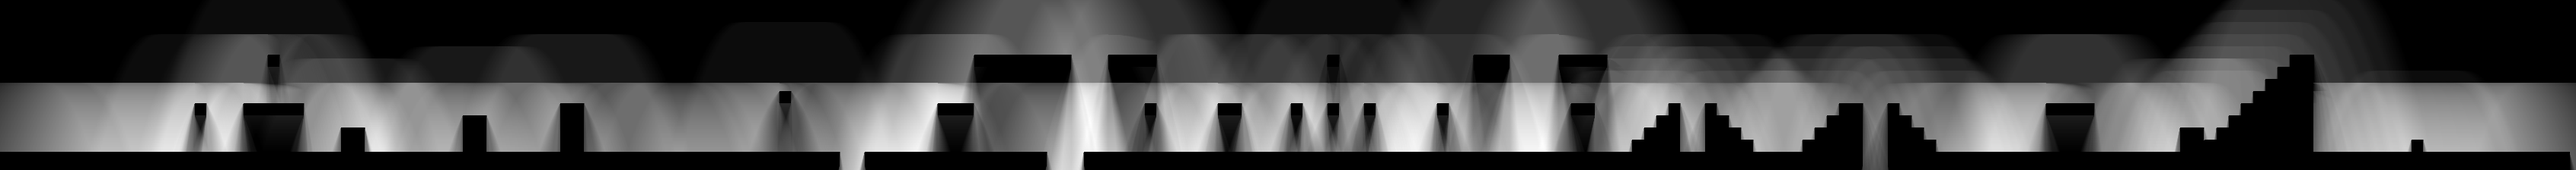
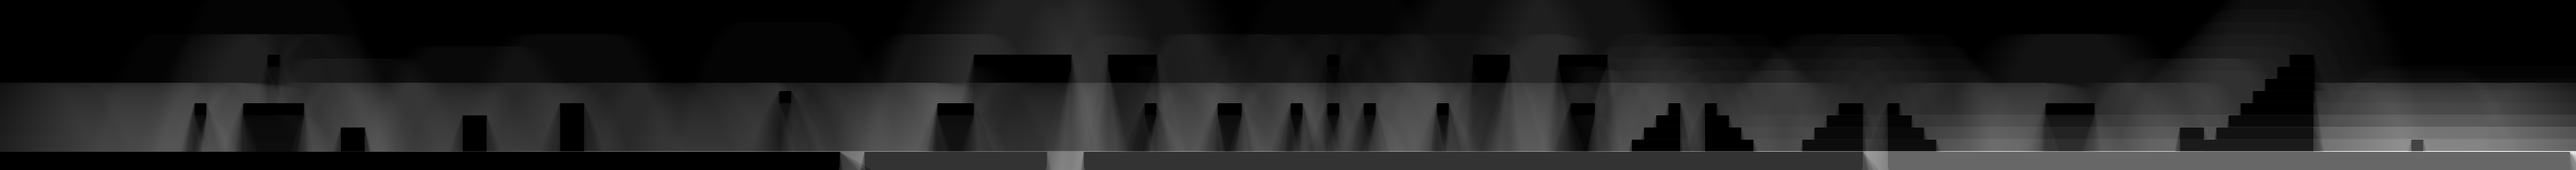
remove comments

diff --git a/Reach_Data/Reach_Data.cpp b/Reach_Data/Reach_Data.cpp
@@ -39,17 +39,22 @@ int main(int argc, char* argv[]) {
 			platform_image.at<uchar>(pixel.x, pixel.y) = 255;
 		cv::imwrite(base_path + "\\platform_image.png", platform_image);
 	}	
-	
-	cv::Mat jump_up((int) globals.jump_height, static_cast<int>(globals.jump_half_width)* 2, CV_8UC1, cv::Scalar(0));
-	cv::Mat jump_down((int) globals.jump_height, static_cast<int>(globals.jump_half_width) * 2, CV_8UC1, cv::Scalar(0));
-	for (int x = 0; x < jump_up.rows; x++) {
-		float hd = horizontal_from_vertical(cv::Point2f(0.f, globals.velocity.y), globals.gravity, static_cast<float>(-x));
-		for (int y = 0; y <= static_cast<int>(globals.jump_half_width - hd); y++) jump_up.at<uchar>(x, y) = 255;
-		for (int y = 0; y <= static_cast<int>(globals.jump_half_width + hd); y++) jump_down.at<uchar>(x, y) = 255;
-	}
-	cv::imwrite("jump_up.png", jump_up);
-	cv::imwrite("jump_down.png", jump_down);
+	std::ifstream jump_up_image("jump_up.png");
+	std::ifstream jump_down_image("jump_down.png");
 
+	if(!(jump_down_image && jump_up_image))
+	{
+		cv::Mat jump_up((int) globals.jump_height, static_cast<int>(globals.jump_half_width)* 2, CV_8UC1, cv::Scalar(0));
+		cv::Mat jump_down((int) globals.jump_height, static_cast<int>(globals.jump_half_width) * 2, CV_8UC1, cv::Scalar(0));
+        for (int x = 0; x < jump_up.rows; x++) {
+        	float hd = horizontal_from_vertical(cv::Point2f(0.f, globals.velocity.y), globals.gravity, static_cast<float>(-x));
+        	for (int y = 0; y <= static_cast<int>(globals.jump_half_width - hd); y++) jump_up.at<uchar>(x, y) = 255;
+        	for (int y = 0; y <= static_cast<int>(globals.jump_half_width + hd); y++) jump_down.at<uchar>(x, y) = 255;
+        }
+		cv::imwrite("jump_up.png", jump_up);
+		cv::imwrite("jump_down.png", jump_down);
+	}
+	
 	cv::Mat reach_image(std::get<0>(dim_image), std::get<1>(dim_image), CV_32SC1, cv::Scalar(0));
 
 	int count = 0;
@@ -57,114 +62,111 @@ int main(int argc, char* argv[]) {
 	for (const cv::Point& platform_pixel : platform_pixels) {
 		cv::Mat jump_right_image(std::get<0>(dim_image), std::get<1>(dim_image), CV_8UC1, cv::Scalar(0));
 		/* Calculates the right sided jump. */ {
-			cv::Point summit(platform_pixel.x - globals.jump_height, platform_pixel.y + globals.jump_half_width);
+		cv::Point summit(platform_pixel.x - globals.jump_height, platform_pixel.y + globals.jump_half_width);
 
-			cv::Mat ascending_image(jump_right_image.rows, jump_right_image.cols, CV_8UC1, cv::Scalar(0));
-			/* Paint the full ascending motion of the jump. */ {
-				for (int x = __max(summit.x, 0) /* if jump is higher than the top of the image. */; x < platform_pixel.x; x++) {
-					float horizontal_delta = horizontal_from_vertical(cv::Point2f(0.f, globals.velocity.y), globals.gravity, summit.x - x);
-					for (int y = platform_pixel.y; y <= __min(summit.y - horizontal_delta, ascending_image.cols - 1) /* if jump is too far right of the image. */; y++)
-						ascending_image.at<uchar>(x, y) = 255;
-				}
+		cv::Mat ascending_image(jump_right_image.rows, jump_right_image.cols, CV_8UC1, cv::Scalar(0));
+		/* Paint the full ascending motion of the jump. */ {
+			for (int x = __max(summit.x, 0) /* if jump is higher than the top of the image. */; x < platform_pixel.x; x++) {
+				float horizontal_delta = horizontal_from_vertical(cv::Point2f(0.f, globals.velocity.y), globals.gravity, summit.x - x);
+				for (int y = platform_pixel.y; y <= __min(summit.y - horizontal_delta, ascending_image.cols - 1) /* if jump is too far right of the image. */; y++)
+					ascending_image.at<uchar>(x, y) = 255;
+			}
+		}
+
+		cv::Mat descending_image(jump_right_image.rows, jump_right_image.cols, CV_8UC1, cv::Scalar(0));
+		/* Paint the full descending motion of the jump. */ {
+			for (int x = __max(summit.x, 0) /* if jump is higher than the top of the image. */; x < descending_image.rows; x++) {
+				float horizontal_delta = horizontal_from_vertical(cv::Point2f(0.f, globals.velocity.y), globals.gravity, summit.x - x);
+				for (int y = platform_pixel.y; y <= __min(summit.y + horizontal_delta, descending_image.cols - 1) /* if jump is too far right of the image. */; y++)
+					descending_image.at<uchar>(x, y) = 255;
+			}
+		}
+
+		for (const collision_t& collision : collisions) {
+			bool process_ascending = true;
+			bool process_descending = true;
+			/* Cut-offs for optimisation (platforms that will have no impact on reach). */ {
+				if (collision.y + collision.w <= platform_pixel.y) continue;   // The platform is to the left of the jump.
+				if (collision.x + collision.h <= summit.x) continue;		   // The platform is above the jump height.
+				if (collision.x > platform_pixel.x) process_ascending = false; // Ascending specific: the platform is below the starting point.
+				if (collision.y > summit.y) process_ascending = false;		   // Ascending specific: the platform is farther right than the summit.
+
+				float horizontal_delta = horizontal_from_vertical(cv::Point2f(0.f, globals.velocity.y), globals.gravity, summit.x - descending_image.rows);
+				if (collision.y > summit.y + horizontal_delta) process_descending = false; // Descending specific: the platform is farther right than the jump can reach.
 			}
 
-			cv::Mat descending_image(jump_right_image.rows, jump_right_image.cols, CV_8UC1, cv::Scalar(0));
-			/* Paint the full descending motion of the jump. */ {
-				for (int x = __max(summit.x, 0) /* if jump is higher than the top of the image. */; x < descending_image.rows; x++) {
-					float horizontal_delta = horizontal_from_vertical(cv::Point2f(0.f, globals.velocity.y), globals.gravity, summit.x - x);
-					for (int y = platform_pixel.y; y <= __min(summit.y + horizontal_delta, descending_image.cols - 1) /* if jump is too far right of the image. */; y++)
-						descending_image.at<uchar>(x, y) = 255;
-				}
-			}
+			if (process_ascending) {
+				cv::Point   ul_corner(__max(collision.x, summit.x), collision.y - 1);
+				cv::Point2f ul_velocity = ascending_velocity(platform_pixel, ul_corner, globals.velocity, globals.gravity);
+				cv::Point2f ul_summit   = ascending_summit(ul_corner, ul_velocity, globals.gravity);
 
-			for (const collision_t& collision : collisions) {
-				bool process_ascending = true;
-				bool process_descending = true;
-				/* Cut-offs for optimisation (platforms that will have no impact on reach). */ {
-					if (collision.y + collision.w <= platform_pixel.y) continue;   // The platform is to the left of the jump.
-					if (collision.x + collision.h <= summit.x) continue;		   // The platform is above the jump height.
-					if (collision.x > platform_pixel.x) process_ascending = false; // Ascending specific: the platform is below the starting point.
-					if (collision.y > summit.y) process_ascending = false;		   // Ascending specific: the platform is farther right than the summit.
+				cv::Point   lr_corner(collision.x + collision.h - 1, collision.y + collision.w);
+				cv::Point2f lr_velocity = ascending_velocity(platform_pixel, lr_corner, globals.velocity, globals.gravity);
+				cv::Point2f lr_summit   = ascending_summit(lr_corner, lr_velocity, globals.gravity);
 
-					float horizontal_delta = horizontal_from_vertical(cv::Point2f(0.f, globals.velocity.y), globals.gravity, summit.x - descending_image.rows);
-					if (collision.y > summit.y + horizontal_delta) process_descending = false; // Descending specific: the platform is farther right than the jump can reach.
-				}
+				if (ul_velocity.y <= globals.velocity.y) {
+					int start_x = __max(ul_summit.x, lr_summit.x); // Get rid of floating-point errors.
+					start_x = __max(start_x, 0); // if jump is higher than the top of the image.
+					for (int x = start_x; x <= lr_corner.x; x++) {
+						float right = lr_summit.y - horizontal_from_vertical(cv::Point2f(0.f, lr_velocity.y), globals.gravity, lr_summit.x - x) - 1;
+						float left  = ul_summit.y - horizontal_from_vertical(cv::Point2f(0.f, ul_velocity.y), globals.gravity, ul_summit.x - x) + 1;
+						right = __min(right, ascending_image.cols - 1); // If the platform is at the same level as the jump origin (inf otherwise).
+						left  = __max(__min(left, ascending_image.cols - 1) /* if the jump is farther right than the image. */, platform_pixel.y);
 
-				if (process_ascending) {
-					cv::Point   ul_corner(__max(collision.x, summit.x), collision.y - 1);
-					cv::Point2f ul_velocity = ascending_velocity(platform_pixel, ul_corner, globals.velocity, globals.gravity);
-					cv::Point2f ul_summit   = ascending_summit(ul_corner, ul_velocity, globals.gravity);
-
-					cv::Point   lr_corner(collision.x + collision.h - 1, collision.y + collision.w);
-					cv::Point2f lr_velocity = ascending_velocity(platform_pixel, lr_corner, globals.velocity, globals.gravity);
-					cv::Point2f lr_summit   = ascending_summit(lr_corner, lr_velocity, globals.gravity);
-
-					if (ul_velocity.y <= globals.velocity.y) {
-						int start_x = __max(ul_summit.x, lr_summit.x); // Get rid of floating-point errors.
-						start_x = __max(start_x, 0); // if jump is higher than the top of the image.
-						for (int x = start_x; x <= lr_corner.x; x++) {
-							float right = lr_summit.y - horizontal_from_vertical(cv::Point2f(0.f, lr_velocity.y), globals.gravity, lr_summit.x - x) - 1;
-							float left  = ul_summit.y - horizontal_from_vertical(cv::Point2f(0.f, ul_velocity.y), globals.gravity, ul_summit.x - x) + 1;
-							right = __min(right, ascending_image.cols - 1); // If the platform is at the same level as the jump origin (inf otherwise).
-							left  = __max(__min(left, ascending_image.cols - 1) /* if the jump is farther right than the image. */, platform_pixel.y);
-
-							for (int y = left; y <= right; y++)
-								ascending_image.at<uchar>(x, y) = 0;
-						}
-
-						for (int x = start_x; x < ascending_image.rows; x++) {
-							float right = lr_summit.y + horizontal_from_vertical(cv::Point2f(0.f, lr_velocity.y), globals.gravity, lr_summit.x - x) - 1;
-							float left = ul_summit.y + horizontal_from_vertical(cv::Point2f(0.f, ul_velocity.y), globals.gravity, ul_summit.x - x) + 1;
-							right = __max(__min(right, ascending_image.cols - 1), 0); // If the jump is farther right than the image.
-							left = __max(__min(left, ascending_image.cols - 1), 0); // If the jump is farther right than the image.
-
-							for (int y = left; y <= right; y++)
-								descending_image.at<uchar>(x, y) = 0;
-						}
+						for (int y = left; y <= right; y++)
+							ascending_image.at<uchar>(x, y) = 0;
 					}
-				}
 
-				if (process_descending) {
-					cv::Point   ll_corner(collision.x + collision.h - 1, collision.y - 1);
-					cv::Point2f ll_velocity = descending_velocity(platform_pixel, ll_corner, globals.velocity, globals.gravity);
+					for (int x = start_x; x < ascending_image.rows; x++) {
+						float right = lr_summit.y + horizontal_from_vertical(cv::Point2f(0.f, lr_velocity.y), globals.gravity, lr_summit.x - x) - 1;
+						float left = ul_summit.y + horizontal_from_vertical(cv::Point2f(0.f, ul_velocity.y), globals.gravity, ul_summit.x - x) + 1;
+						right = __max(__min(right, ascending_image.cols - 1), 0); // If the jump is farther right than the image.
+						left = __max(__min(left, ascending_image.cols - 1), 0); // If the jump is farther right than the image.
 
-					cv::Point   ur_corner(collision.x, collision.y + collision.w);
-					cv::Point2f ur_velocity = descending_velocity(platform_pixel, ur_corner, globals.velocity, globals.gravity);
-
-					for (int x = ur_corner.x; x < descending_image.rows; x++) {
-						float right = ur_corner.y + horizontal_from_vertical(ur_velocity, globals.gravity, ur_corner.x - x) - 1;
-						float left  = ll_corner.y + horizontal_from_vertical(ll_velocity, globals.gravity, __min(ll_corner.x - x, 0)) + 1;
-						right = __min(right, descending_image.cols - 1); // If the jump is farther right than the image.
-						left  = __min(__max(left, 0), descending_image.cols - 1); // If the jump is farther right than the image.
-
-						for (int y = left; y <= right; y++) {
+						for (int y = left; y <= right; y++)
 							descending_image.at<uchar>(x, y) = 0;
-						}
 					}
 				}
+			}
 
-				//if (process_ascending) {
-				//	if (platform_pixel.y == 1276)
-				//		int breakpoint = 0;
+			if (process_descending) {
+				cv::Point   ll_corner(collision.x + collision.h - 1, collision.y - 1);
+				cv::Point2f ll_velocity = descending_velocity(platform_pixel, ll_corner, globals.velocity, globals.gravity);
 
-				//	cv::Point corner(collision.x + collision.h - 1, collision.y + collision.w - 1);
-				//	float time = time_from_to_small(platform_pixel, corner, globals.velocity, globals.gravity);
+				cv::Point   ur_corner(collision.x, collision.y + collision.w);
+				cv::Point2f ur_velocity = descending_velocity(platform_pixel, ur_corner, globals.velocity, globals.gravity);
 
-				//	cv::Point   ll_corner(collision.x + collision.h - 1, collision.y);
-				//	cv::Point2f hit(corner.x, __min(platform_pixel.y + globals.velocity.y * time, corner.y));
-				//	cv::Point2f hit_velocity = ascending_velocity(platform_pixel, hit, globals.velocity, globals.gravity);
+				for (int x = ur_corner.x; x < descending_image.rows; x++) {
+					float right = ur_corner.y + horizontal_from_vertical(ur_velocity, globals.gravity, ur_corner.x - x) - 1;
+					float left  = ll_corner.y + horizontal_from_vertical(ll_velocity, globals.gravity, __min(ll_corner.x - x, 0)) + 1;
+					right = __min(right, descending_image.cols - 1); // If the jump is farther right than the image.
+					left  = __min(__max(left, 0), descending_image.cols - 1); // If the jump is farther right than the image.
+
+					for (int y = left; y <= right; y++) {
+						descending_image.at<uchar>(x, y) = 0;
+					}
+				}
+			}
+
+			if (process_ascending) {
+				cv::Point corner(collision.x + collision.h - 1, collision.y + collision.w - 1);
+				float time = time_from_to_small(platform_pixel, corner, globals.velocity, globals.gravity);
+
+				cv::Point   ll_corner(collision.x + collision.h - 1, collision.y);
+					cv::Point2f hit(corner.x, __min(platform_pixel.y + globals.velocity.y * time, corner.y));
+					cv::Point2f hit_velocity = ascending_velocity(platform_pixel, hit, globals.velocity, globals.gravity);
 
 
-				//	//if (hit.y < collision.y) continue; // The jump hits the side of the platform, not underneath. 
-				//	for (int x = corner.x; x < descending_image.rows; x++) {
-				//		float left  = __max(ll_corner.y, platform_pixel.y);
-				//		float right = hit.y + horizontal_from_vertical(cv::Point2f(0.f, hit_velocity.y), globals.gravity, hit.x - x);
-				//		right = __min(right, descending_image.cols - 1); // if the jump is farther right than the image.
+				//if (hit.y < collision.y) continue; // The jump hits the side of the platform, not underneath. 
+				for (int x = corner.x; x < descending_image.rows; x++) {
+					float left  = __max(ll_corner.y, platform_pixel.y);
+					float right = hit.y + horizontal_from_vertical(cv::Point2f(0.f, hit_velocity.y), globals.gravity, hit.x - x);
+					right = __min(right, descending_image.cols - 1); // if the jump is farther right than the image.
 
-				//		for (int y = left; y <= right; y++)
-				//			descending_image.at<uchar>(x, y) = 255;
-				//	}
-				//}
+					for (int y = left; y <= right; y++)
+						descending_image.at<uchar>(x, y) = 255;
+					}
+				}
 			}
 
 			/* Merge both ascending and descending parts into one image. */ {
@@ -195,6 +197,7 @@ int main(int argc, char* argv[]) {
 						descending_image.at<uchar>(x, y) = 255;
 				}
 			}
+			
 
 			for (const collision_t& collision : collisions) {
 				bool process_ascending = true;
